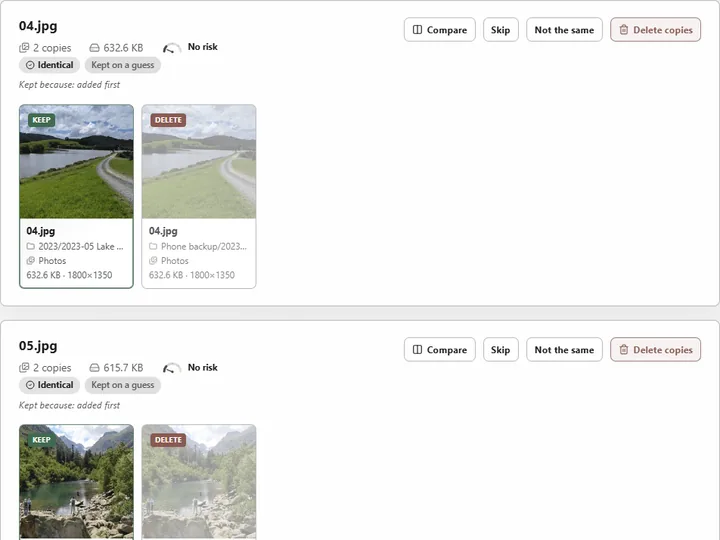
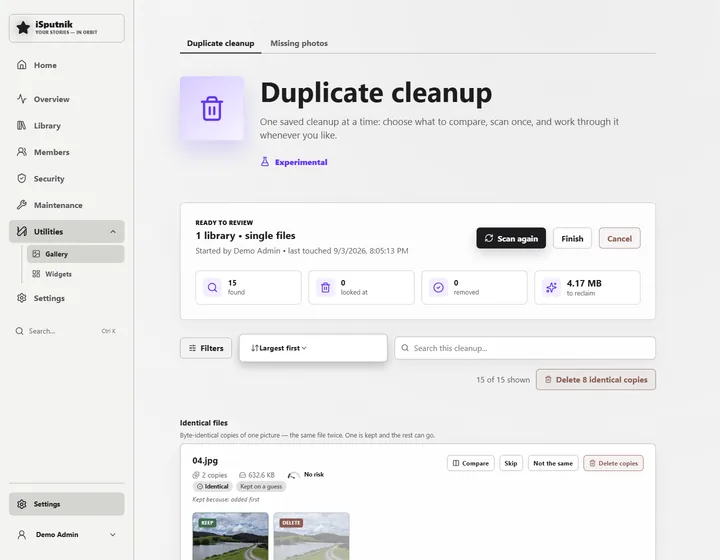
Map, Duplicate cleanup and Quotes rejoin the tabs
The three features that lost their home when the duplicated sections went are
back. Map and Duplicate cleanup go to the Gallery tab, which now runs seven.
Quotes goes to Ebooks rather than Stories: the quote capture starts in the
reader, so it reads better sitting next to it than filed under family history.

Duplicate cleanup is recaptured as the whole window to match its new
neighbours. It was still the old 4:3 crop of the comparison card alone, which
would have been the one framing in the tab without any chrome around it. The
full window also carries the job summary the crop cut off — fifteen sets found,
4.17 MB to reclaim — which says more about the feature than two thumbnails do.
The scroll hazard its old comment warned about went with the crop, since
nothing scrolls now.

Their three rig shots are unparked. Three remain parked and unused:
scan-layout-ebooks, scan-layout-audiobooks and security-score.

diff --git a/index.html b/index.html
@@ -324,6 +324,7 @@
             ["ebooks-grid-1080", "Ebooks", "Your ebook collection on one shelf."],
             ["ebook-authors-1080", "Authors", "Every author across both shelves, in one list."],
             ["ebook-reader-1080", "The reader", "A comfortable reading experience built in."],
+            ["quotes-1080", "Quotes", "Highlight a line while reading and it is kept."],
             ["book-editions-1020", "Editions", "Keep formats and translations together."]
           ]
         },
@@ -335,7 +336,9 @@
             ["gallery-memories-1080", "Memories", "This day in earlier years, brought back on its own."],
             ["gallery-people-1080", "People", "Find the familiar faces in your photos."],
             ["gallery-album-1080", "Albums", "Keep the moments that belong together."],
-            ["gallery-slideshows-1080", "Slideshows", "Turn a day into a movie, music and all."]
+            ["gallery-slideshows-1080", "Slideshows", "Turn a day into a movie, music and all."],
+            ["gallery-map-1080", "Map", "Everywhere you have been, on one map."],
+            ["duplicate-card-1080", "Duplicate cleanup", "Find the copies and decide what to keep."]
           ]
         },
         family: {
